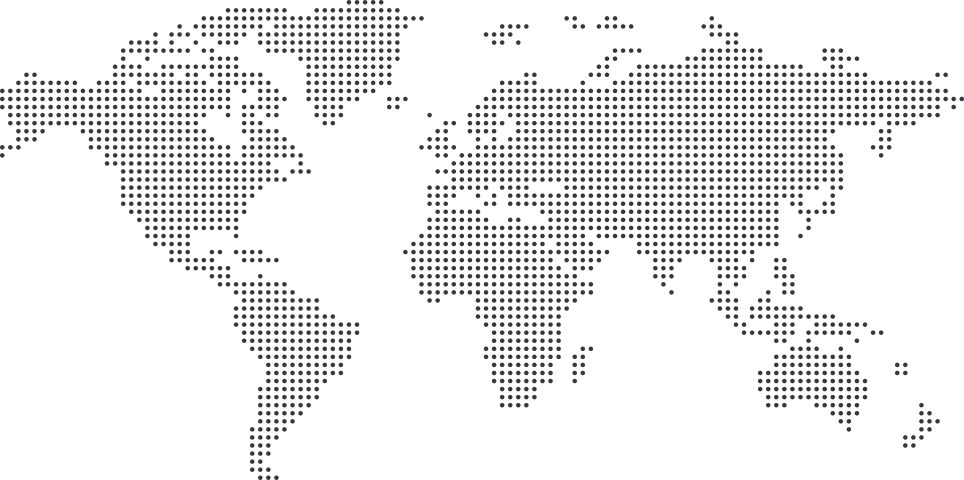
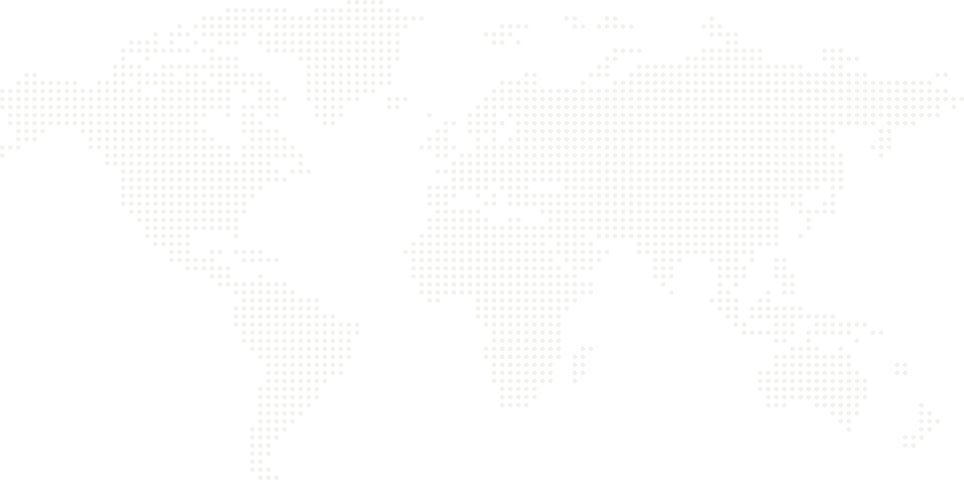
Added SessionGradient component to handle map parallax and gradient transition on the session screens (incomplete), recolored map.png

diff --git a/src/components/SessionGradient.js b/src/components/SessionGradient.js
@@ -1,0 +1,80 @@
+/**
+ * @Class:             SessionGradient.js
+ * @Description:       Render Session Gradient and map
+ * @Author:            Paolo Pirruccio     @Date: 20/03/2017
+ * @Notes:
+ * @Revision History:
+ * @Name:              @Date:      @Description:
+ */
+
+
+import React from 'react';
+import {
+  StyleSheet,
+  Text,
+  Image,
+  View,
+} from 'react-native';
+import TimerMixin from 'react-timer-mixin';
+import LinearGradient from 'react-native-linear-gradient';
+import MapImage from 'skydreamer/images/map.png';
+
+function incrementColor(color, step) {
+  const intColor = parseInt(color.substr(1), 16);
+  const newIntColor = (intColor + step).toString(16);
+  return `#${'0'.repeat(6 - newIntColor.length)}${newIntColor}`;
+};
+
+const SessionGradient = React.createClass({
+  mixins: [TimerMixin],
+
+  getInitialState() {
+    return {
+      count: 0,
+      colorTop: '#dd1a71',
+      colorBottom: '#f67634',
+    }
+  },
+
+  componentDidMount() {
+    this.setInterval(() => {
+      this.setState({
+        count: this.state.count + 1,
+        colorTop: incrementColor(this.state.colorTop, 1),
+        colorBottom: incrementColor(this.state.colorBottom, 1),
+      });
+    }, 20);
+  },
+
+  render() {
+    return (
+      <View style={styles.container}>
+        <LinearGradient
+          start={{x: 0, y: 0}} end={{x: 1, y: 0}}
+          colors={[this.state.colorTop, this.state.colorBottom]}
+          style={styles.gradient}>
+          <Image
+            source={MapImage}
+          />
+          </LinearGradient>
+
+      </View>
+    );
+  }
+});
+
+const styles = StyleSheet.create({
+  container: {
+    flex: 1,
+    backgroundColor: '#F5FCFF',
+  },
+  gradient: {
+    flex: 1,
+    width: null,
+    height: null,
+  },
+  image: {
+  }
+});
+
+export default SessionGradient;
